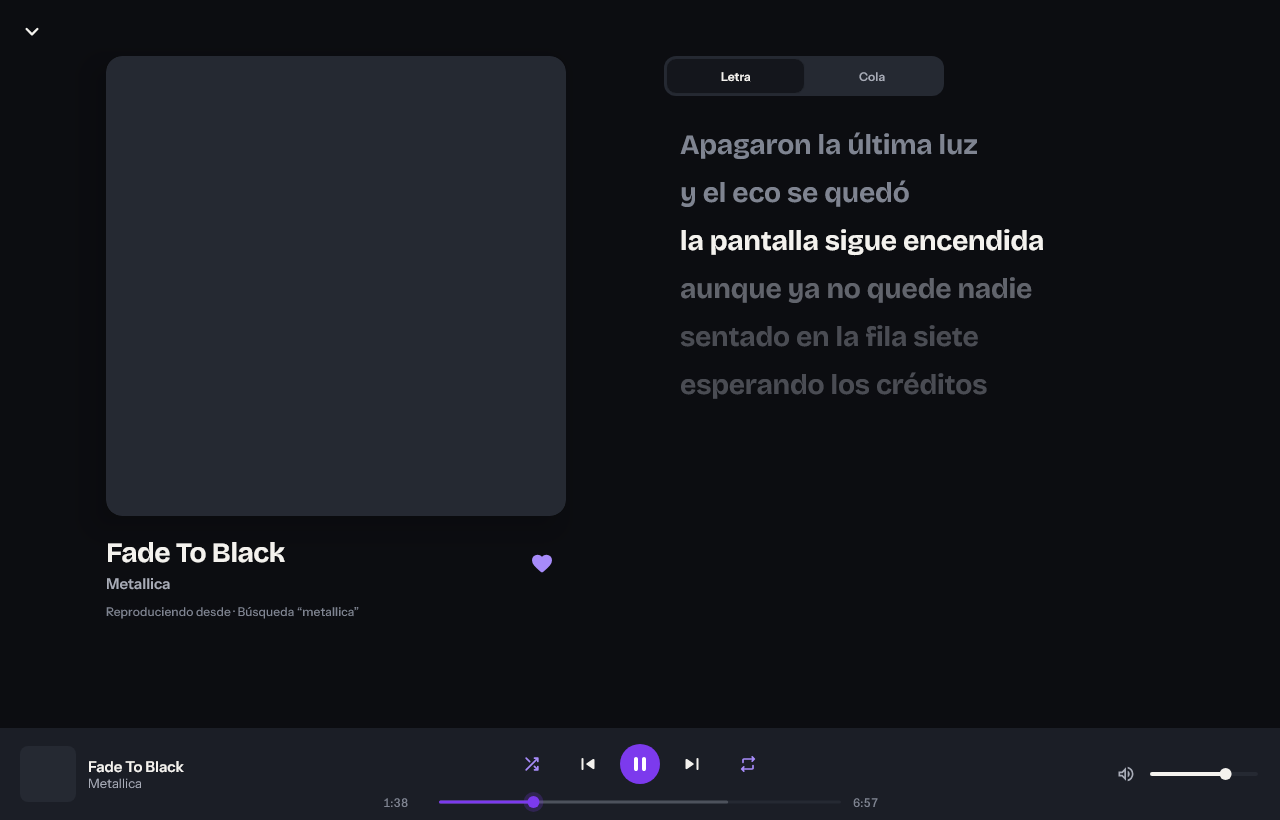
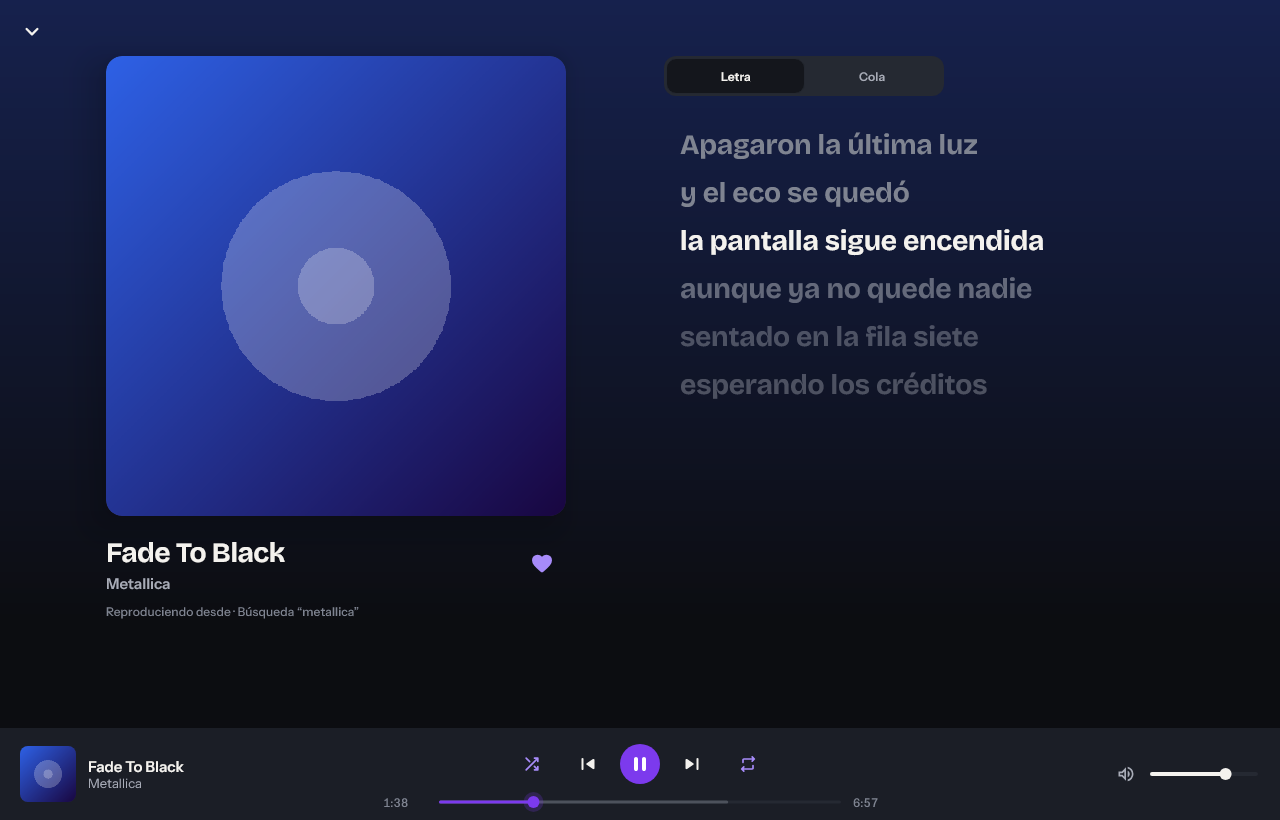
docs: screenshots with sample cover art

diff --git a/app/src/test/kotlin/com/flix/music/ui/ScreensSnapshotTest.kt b/app/src/test/kotlin/com/flix/music/ui/ScreensSnapshotTest.kt
@@ -39,12 +39,28 @@ import kotlin.time.Duration.Companion.seconds
 /** Snapshots of the desktop screens with sample data, written to `build/snapshots`. */
 class ScreensSnapshotTest {
 
+    /** Sample covers drawn here, so the screenshots show artwork without the network. */
+    private fun cover(index: Int): String {
+        val hues = floatArrayOf(0.62f, 0.02f, 0.08f, 0.45f)
+        val file = java.io.File("build/snapshots/covers/cover-$index.png").apply { parentFile.mkdirs() }
+        val image = java.awt.image.BufferedImage(600, 600, java.awt.image.BufferedImage.TYPE_INT_RGB)
+        val g = image.createGraphics()
+        g.paint = java.awt.GradientPaint(0f, 0f, java.awt.Color.getHSBColor(hues[index], 0.8f, 0.9f), 600f, 600f, java.awt.Color.getHSBColor(hues[index] + 0.1f, 0.9f, 0.25f))
+        g.fillRect(0, 0, 600, 600)
+        g.paint = java.awt.Color(255, 255, 255, 60)
+        g.fillOval(150, 150, 300, 300)
+        g.fillOval(250, 250, 100, 100)
+        g.dispose()
+        javax.imageio.ImageIO.write(image, "png", file)
+        return file.toURI().toString().replaceFirst("file:/", "file:///")
+    }
+
     private val metallica = ArtistRef("UC1", "Metallica")
     private val tracks = listOf(
-        Track("1", "Fade To Black", listOf(metallica), AlbumRef("a1", "Ride The Lightning"), 417.seconds, null),
-        Track("2", "Master of Puppets", listOf(metallica), AlbumRef("a2", "Master of Puppets"), 516.seconds, null),
-        Track("3", "One", listOf(metallica), AlbumRef("a3", "...And Justice for All"), 446.seconds, null),
-        Track("4", "Nothing Else Matters", listOf(metallica), AlbumRef("a4", "Metallica"), 388.seconds, null),
+        Track("1", "Fade To Black", listOf(metallica), AlbumRef("a1", "Ride The Lightning"), 417.seconds, cover(0)),
+        Track("2", "Master of Puppets", listOf(metallica), AlbumRef("a2", "Master of Puppets"), 516.seconds, cover(1)),
+        Track("3", "One", listOf(metallica), AlbumRef("a3", "...And Justice for All"), 446.seconds, cover(2)),
+        Track("4", "Nothing Else Matters", listOf(metallica), AlbumRef("a4", "Metallica"), 388.seconds, cover(3)),
     )
     private val playerState = PlayerState(
         status = PlaybackStatus.Playing,

diff --git a/app/src/test/kotlin/com/flix/music/ui/ScreenSnapshots.kt b/app/src/test/kotlin/com/flix/music/ui/ScreenSnapshots.kt
@@ -19,12 +19,15 @@ internal fun snapshot(
     themeMode: ThemeMode = ThemeMode.Dark,
     content: @Composable () -> Unit,
 ) {
+    coil3.SingletonImageLoader.setSafe { ctx -> coil3.ImageLoader.Builder(ctx).components { add(LocalFileFetcher) }.build() }
     val scene = ImageComposeScene(width, height, Density(1f)) {
         FlixTheme(themeMode = themeMode) { content() }
     }
     repeat(SETTLE_FRAMES) { frame -> scene.render(frame * FRAME_NANOS) }
     Thread.sleep(FONT_LOAD_MILLIS)
-    val image = scene.render(SETTLE_FRAMES * FRAME_NANOS)
+    repeat(SETTLE_FRAMES) { frame -> Thread.sleep(50); scene.render((SETTLE_FRAMES + frame) * FRAME_NANOS) }
+    Thread.sleep(FONT_LOAD_MILLIS)
+    val image = scene.render(2 * SETTLE_FRAMES * FRAME_NANOS)
     val file = File("build/snapshots/$name.png").apply { parentFile.mkdirs() }
     file.writeBytes(requireNotNull(image.encodeToData(EncodedImageFormat.PNG)).bytes)
     scene.close()
@@ -33,3 +36,14 @@ internal fun snapshot(
 private const val SETTLE_FRAMES = 30
 private const val FRAME_NANOS = 16_000_000L
 private const val FONT_LOAD_MILLIS = 600L
+
+/** Lets the sample covers, saved as local files, load in the snapshots. */
+private object LocalFileFetcher : coil3.fetch.Fetcher.Factory<coil3.Uri> {
+    override fun create(data: coil3.Uri, options: coil3.request.Options, imageLoader: coil3.ImageLoader): coil3.fetch.Fetcher? {
+        if (data.scheme != "file") return null
+        return coil3.fetch.Fetcher {
+            val path = okio.Path.Companion.run { File(java.net.URI(data.toString().replaceFirst("file:///", "file:/"))).absolutePath.toPath() }
+            coil3.fetch.SourceFetchResult(coil3.decode.ImageSource(path, okio.FileSystem.SYSTEM), "image/png", coil3.decode.DataSource.DISK)
+        }
+    }
+}
